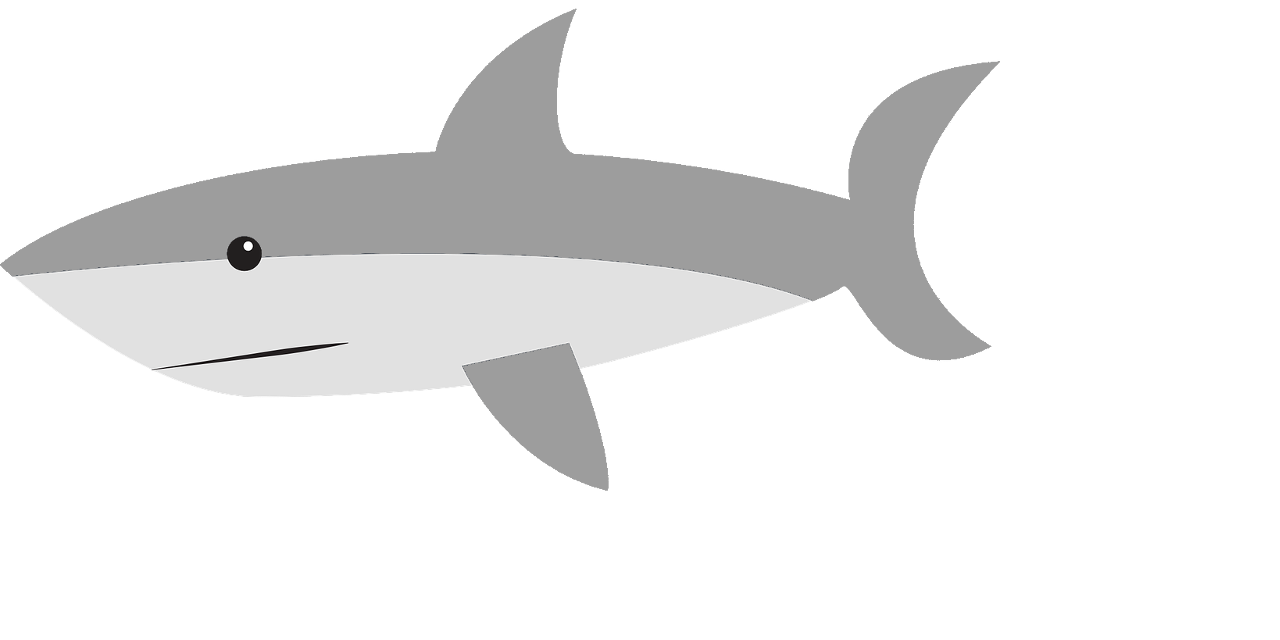
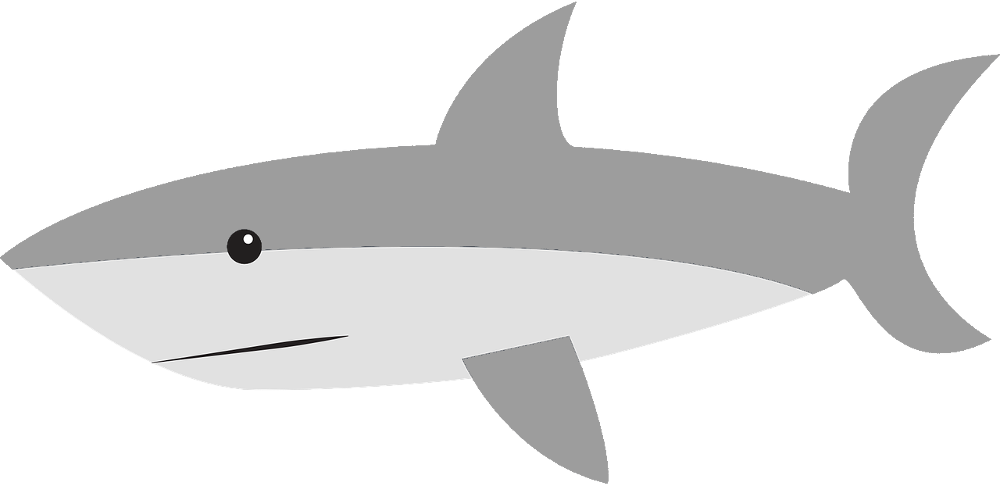
Kollision & Bilder zugeschnitten

diff --git a/core/src/com/dive/game/DiveGame.java b/core/src/com/dive/game/DiveGame.java
@@ -26,9 +26,10 @@ public class DiveGame extends ApplicationAdapter {
 
 		screen = new GameScreen(Gdx.graphics.getWidth(),Gdx.graphics.getHeight(),0,0);
 		
+		gameState = new GameState(1);
 		newObjects = new ObjectGenerator(8,8,0.1f, screen);
 		world = new World(newObjects,screen,0.1f,gameState);
-		gameState = GameState.GAME;
+		
 		pauseCD = 0;
 
 	}
@@ -47,18 +48,16 @@ public class DiveGame extends ApplicationAdapter {
 		deltaTime = Gdx.graphics.getDeltaTime();
 		
 		//Spiellogik updaten und Welt bewegen
-		if(gameState == GameState.GAME){
-			world.update(deltaTime); 
+		if(gameState.isRunning()){
+			world.update(deltaTime);
 			world.move(deltaTime);
 		}
-		
-		
+
 		//Spiel pausieren
-		if(Gdx.input.isKeyPressed(Input.Keys.SPACE)){
-			if(gameState == GameState.GAME){gameState=GameState.PAUSE; pauseCD=1;}
-			else if(gameState == GameState.PAUSE){gameState=GameState.GAME; pauseCD=1;}
-			else{pauseCD-=deltaTime;}
+		if(Gdx.input.isKeyPressed(Input.Keys.SPACE) && pauseCD <= 0){
+			gameState.toggle();pauseCD=0.1f;
 		}
+		pauseCD-=deltaTime;
 		
 		//batch erstellen
 		batch.begin();
@@ -74,11 +73,12 @@ public class DiveGame extends ApplicationAdapter {
 
 	@Override
 	public void pause() {
-		gameState = GameState.PAUSE;
+		gameState.pause();
 	}
 
 	@Override
 	public void resume() {
+		gameState.resume();
 	}
 
 }

diff --git a/core/src/com/dive/game/Diver.java b/core/src/com/dive/game/Diver.java
@@ -11,14 +11,14 @@ public class Diver {
 	
 	private int air;
 	private float[] v;
-	private float maxSpeed, decay;
+	private float maxSpeed, maxSpeedOrigin, decay;
 	private Rectangle shape;
 	private Sprite sprite;
 	private GameScreen screen;
 	
 	public Diver(Texture texture,int width, int height, int startY, int maxSpeed, GameScreen screen){
 
-		this.maxSpeed = maxSpeed;
+		maxSpeedOrigin = this.maxSpeed = maxSpeed;
 		this.screen = screen;
 		
 		air = 100;
@@ -34,6 +34,8 @@ public class Diver {
 	}
 	
 	public void move(float deltaTime){
+		
+		v[1]=0;
 		
 		//Bewegungssteuerung
 		if(Gdx.input.isKeyPressed(Input.Keys.UP))		{v[1]+=maxSpeed;}		
@@ -94,6 +96,15 @@ public class Diver {
 
 	public void resize() {
 		sprite.setSize(100, 50);
+		
+	}
+
+	public void refresh() {
+		maxSpeed = maxSpeedOrigin;
+	}
+
+	public void slow() {
+		maxSpeed = maxSpeedOrigin*0.2f;
 		
 	}
 

diff --git a/core/src/com/dive/game/GameState.java b/core/src/com/dive/game/GameState.java
@@ -1,5 +1,45 @@
 package com.dive.game;
 
-public enum GameState {
-	MENU, GAME, ENDSCREEN, HIGHSCORES, PAUSE
+public class GameState {
+	
+	private State state;
+	
+	public enum State {
+		START, MENU, GAME, ENDSCREEN, HIGHSCORES, PAUSE
+	}
+	
+	public GameState(){
+		state = State.START;
+	}
+	
+	public GameState(int i){
+		switch(i){
+			case 0: state = State.START; break;
+			case 1: state = State.GAME; break; 
+			default : state = State.START; break;
+		}
+	}
+	
+	public State getState(){
+		return state;
+	}
+	
+	public void pause(){
+		state = State.PAUSE;
+	}
+	
+	public void resume(){
+		state = State.GAME;
+	}
+	
+	public void toggle(){
+		if(state == State.GAME){state=State.PAUSE;}
+		else if(state == State.PAUSE){state=State.GAME;}
+	}
+	
+	public boolean isRunning(){
+		return (state == State.GAME);
+	}
+	
 }
+

diff --git a/core/src/com/dive/game/World.java b/core/src/com/dive/game/World.java
@@ -50,13 +50,17 @@ public class World {
 	}
 	
 	public void update(float deltaTime){
+		//Diver auf Standardgeschwindigkeit (nachdem er verlangsamt wurde durch kollision)
+		diver.refresh();
+		
+		//Level aufbauen
 		objectGen.nextPlant(objects, deltaTime);
 		objectGen.nextShark(objects, deltaTime);
-		if(Collision.checkCollision(diver, objects)==ObjectType.SHARK){
-			// System.out.println(ObjectType.SHARK);
-			state=GameState.PAUSE;
-			System.out.println(state);}
 		
+		//Kollisionsabfragen
+		ObjectType coll = Collision.checkCollision(diver, objects);
+		if(coll == ObjectType.SHARK){state.pause();}
+		else if(coll == ObjectType.PLANT){diver.slow();}
 	}
 
 }

diff --git a/core/src/com/dive/game/GameObject.java b/core/src/com/dive/game/GameObject.java
@@ -47,7 +47,6 @@ public class GameObject {
 	public void moveObject(float width, float deltaTime, float gameSpeed){
 		sprite.translateX(-width*deltaTime*gameSpeed);
 		shape.setPosition(sprite.getX(), sprite.getY());
-		// System.out.println("x:" + sprite.getY() + " shapex:" + shape.y);
 	}
 	
 	
